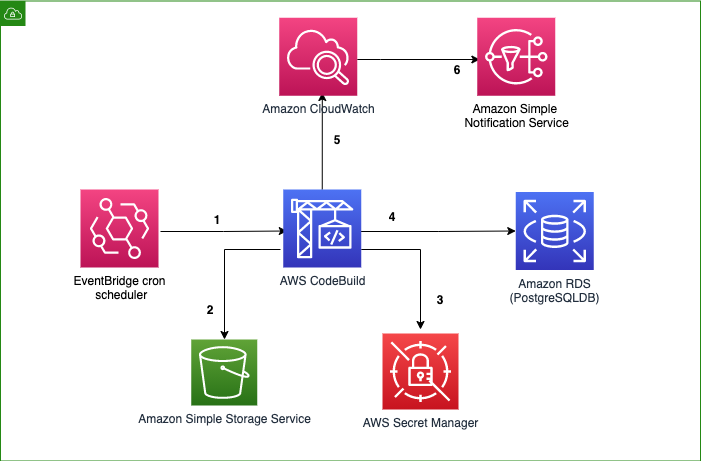
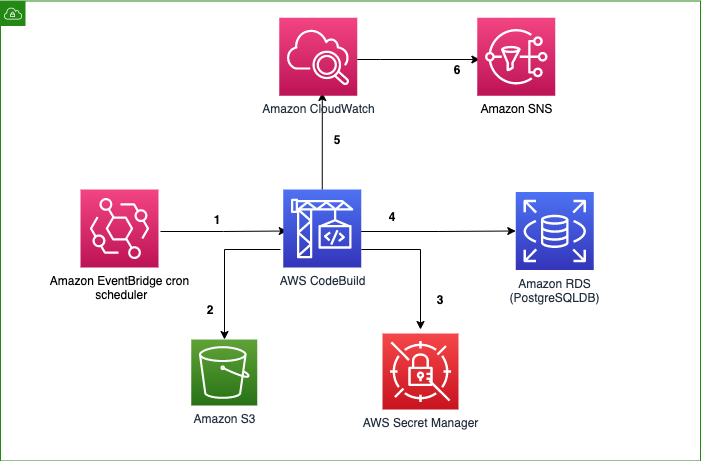
Updated to fix grammers

Changed region(s): [[0.2097, 0.8807, 0.4494, 0.9414], [0.0599, 0.577, 0.2696, 0.6377], [0.6591, 0.2126, 0.8088, 0.2733]]

diff --git a/README.md b/README.md
@@ -1,108 +1,108 @@
 
-# How to use AWS CodeBuild and Amazon EventBridge rules to schedule jobs in Amazon RDS PostgreSQL
+# Schedule jobs in Amazon RDS for PostgreSQL using AWS CodeBuild and Amazon EventBridge
 
 ## Introduction
-When you want to migrate on-premises database workloads with jobs to AWS, you need to select the right AWS services to schedule the jobs .Database administrators traditionally schedule scripts to run against databases using the system cron on the host where the database is running.  When you migrate such workloads from on premises to a managed database service Amazon Relational Database Service (RDS) , you lose the ability to log into the host instance to schedule cron jobs. 
+When you want to migrate on-premises database workloads with jobs to AWS, you need to select the right AWS services to schedule the jobs. Database administrators traditionally schedule scripts to run against databases using the system cron on the host where the database is running. When you migrate such workloads from on premises to a managed database service like Amazon Relational Database Service (Amazon RDS), you lose the ability to log in to the host instance to schedule cron jobs. 
 
-Newer releases of RDS PostgreSQL starting with version 12.5 enable you to schedule PostgreSQL commands within your database. However, if you have a requirement to orchestrate the RDS jobs and need to integrate with native AWS services such as Amazon Simple Notification Service to send notifications then this post provides an alternate way to schedule  and run RDS jobs using AWS CodeBuild and Amazon EventBridge rules.
+Newer releases of Amazon RDS for PostgreSQL starting with version 12.5 enable you to schedule PostgreSQL commands within your database. However, if you need to orchestrate the Amazon RDS jobs and integrate with native AWS services such as Amazon Simple Notification Service (Amazon SNS) to send notifications, this post provides an alternate way to schedule and run Amazon RDS jobs using AWS CodeBuild and Amazon EventBridge rules.
+
 
 ## Why use AWS CodeBuild for scheduling jobs?
-A RDS job can execute stored procedures/ functions , extract the data, purge the data or do any other SQL operations. There are multiple managed services in AWS , such as  AWS Lambda , AWS Batch, Amazon Elastic Container Service (Amazon ECS), AWS Step Functions can be used to run RDS jobs like executing stored procedures , functions or simple SQL statements. As your data grows, jobs might take more than 15mins to run. AWS CodeBuild can natively handle workloads that run for a longer time, in comparison to service like Lambda, which are designed to finish within 15 minutes.
+An Amazon RDS job can run stored procedures and functions, extract the data, purge the data, or do any other SQL operations. You can run these jobs with different AWS services, such as AWS Lambda, AWS Batch, Amazon Elastic Container Service (Amazon ECS), and AWS Step Functions. As your data grows, jobs might take more than 15 minutes to run. CodeBuild can natively handle workloads that run for a longer time, in comparison to services like Lambda, which are designed to finish within 15 minutes.
 
-If you want to use AWS batch or Amazon ECS , you need to package your code as a Docker container. AWS CodeBuild is a good option when your job takes more than 15 mins or  you can’t (or don’t want to) package your code as a Docker container or you want to use different programming language runtimes for your jobs. 
- 
+If you want to use AWS Batch or Amazon ECS, you need to package your code as a Docker container. CodeBuild is a good option when your job takes more than 15 minutes or you can’t (or don’t want to) package your code as a Docker container, or you want to use different programming language runtimes for your jobs.
 
-This post demonstrates how to use the combination of AWS CodeBuild and Amazon EventBridge rules to schedule, and run functions or stored procedures on a RDS PostgreSQL database instance. 
+This post demonstrates how to use the combination of CodeBuild and EventBridge rules to schedule and run functions or stored procedures on an RDS for PostgreSQL database instance. 
+
 
 ![Alt Text](Architecture-scheduling%20Amazon%20RDS%20jobs%20with%20AWS%20CodeBuild%20and%20Amazon%20EventBridge%20rules.png?raw=true  "Title")
 
     1. EventBridge triggers a CodeBuild project environment based on your schedule 
-    2. CodeBuild retrieves the source code from S3 bucket
+    2. CodeBuild retrieves the source code from an Amazon Simple Storage Service (Amazon S3) bucket.
     3. CodeBuild retrieves the database credentials from AWS secrets manager
-    4. CodeBuild initiates the database connection and executes Postgres stored procedure/function 
+    4. CodeBuild initiates the database connection and runs the PostgreSQL stored procedure or function 
     5. CodeBuild events are published to EventBridge
-    6. SNS notifies job status to subscribed users
+    6. Amazon SNS notifies subscribed users of the job status
 
 
 
 ## Prerequisites
-Before you begin, you'll need to complete the following prerequisites:
+Before you begin, you need to complete the following prerequisites:
     
    * Create or have access to an [AWS account](https://signin.aws.amazon.com/signin?redirect_uri=https%3A%2F%2Fportal.aws.amazon.com%2Fbilling%2Fsignup%2Fresume&client_id=signup).
    * Ensure [git](https://git-scm.com/downloads) is installed on your machine.
-   * Set up and configure [AWS Command Line](http://aws.amazon.com/cli). For instructions, see [Installing the AWS CLI](https://docs.aws.amazon.com/cli/latest/userguide/cli-chap-install.html).
-   * SQL client to connect to RDS database. In this post I used [Dbeaver](https://dbeaver.io/ ). 
-   * Email address to receive [SNS](https://aws.amazon.com/sns) notifications.
+   * Set up and configure the [AWS Command Line](http://aws.amazon.com/cli). For instructions, see [Installing the AWS CLI](https://docs.aws.amazon.com/cli/latest/userguide/cli-chap-install.html).
+   * Have a SQL client to connect to RDS database. In this post I used [Dbeaver](https://dbeaver.io/ ). 
+   * Have an email address to receive Amazon[SNS](https://aws.amazon.com/sns) notifications.
 
 
 
 ## Walkthrough
-    
+  The following steps provide a high-level overview of the walkthrough:  
 
-  * Clone the project from the AWS code samples repository
-  * Deploy the CloudFormation template to create the required services
-  * Go to the AWS CloudFormation console and make sure that the resources are created
-  * Upload source code to S3 bucket 
-  * Run database scripts and create the required tables and functions
-  * Execute CodeBuild project manually
-  * Verify if batch job is running successfully based on the EventBridge rule
-
+  * Clone the project from the AWS code samples repository.
+  * Deploy the AWS CloudFormation template to create the required services.
+  * Upload source code to the S3 bucket. 
+  * Run database scripts and create the SQL function.
+  * Execute CodeBuild project manually.
+  * Verify if batch job is running successfully based on the EventBridge rule.
 
 
 
-## Clone source code from AWS samples
-Download the files required to set up the environment. Refer to the following commands and files:
+## Clone the source code
+Download the files required to set up the environment. See the following code:
 
    > $ git clone https://github.com/aws-samples/aws-codebuild-rds-job-scheduling
 
    > $ cd aws-codebuild-rds-job-scheduling
-
-**CreateFunct.sql** - Has a code to create sample SQL function. AWS CodeBuild project is configured to execute this SQL function.
+You use the following files:
+**CreateFunct.sql** - Has a code to create a sample SQL function. The CodeBuild project is configured to run this SQL function.
 
 **Jobschedulingcft.yml** - Defines all the AWS resources required for this solution.
 
-**invokepostgresqldbpy.zip** - Contains buildspec.yml and a python script. CodeBuild installs the libraries such as boto3 , psycopg2 defined in the buildspec.yml and invokes the python script which has a code to connect to PostgreSQL database and execute the SQL function.
+**invokepostgresqldbpy.zip** - Contains buildspec.yml and a Python script. CodeBuild installs the libraries such as boto3 and psycopg2 defined in the buildspec.yml and invokes the Python script, which has a code to connect to PostgreSQL database and run the SQL function.
 
 
-## Deploy the AWS CloudFormation template
+## Deploying the CloudFormation template
 
 To deploy the CloudFormation template, complete the following steps:
 
-   * Update email address parameter in the CloudFormation template Jobschedulingcft.yml. The email address will be used by Amazon SNS to send a notification about the job status
+   * Update the email address parameter in the CloudFormation template Jobschedulingcft.yml. Amazon SNS uses this email address to send a notification about the job status.
 
-   * Run the CloudFormation template to provision the required services. See the following command for macOS or Linux:
+   * Run the CloudFormation template to provision the required services. See the following code for macOS or Linux:
         > $ aws cloudformation create-stack --stack-name codebuildjob --template-body file://Jobschedulingcft.yml --capabilities CAPABILITY_NAMED_IAM --region us-east-1
-        
+
+        You receive the following output:
         > {
         "StackId": "arn:aws:cloudformation:us-east-1:xxxxxxxx:stack/codebuildjob/aade45d0-0415-11eb-9c12-0ed4f058f52d"
          }
 
-The template will create the following resources:
+The template creates the following resources:
 
-   * AWS CodeBuild project
+   * A CodeBuild project
    * A PostgreSQL instance
-   * S3 bucket
-   * AWS Secrets Manager with PostgreSQL database login credentials
-   * EventBridge rule to trigger the job every day at 10 AM (UTC)
-   * IAM Service Roles for CodeBuild, EventBridge and SNS 
-   * SNS Topic to send notifications to the provided email address with the status of the executed Job
+   * An S3 bucket
+   * Secrets Manager with PostgreSQL database login credentials
+   * An EventBridge rule to trigger the job every day at 10:00 AM (UTC)
+   * AWS Identity and Access Management (IAM) service roles for CodeBuild, EventBridge, and Amazon SNS
+   * An SNS topic to send notifications to the provided email address with the status of the job
 
-## Upload source code to S3 bucket
-Go to the AWS CloudFormation console and note down the S3 bucket name in Outputs section of your stack.
+## Upload the source code to the S3 bucket
+On the AWS CloudFormation console, choose the Outputs tab. Make a note of the S3 bucket name.
 Upload aws-codebuild-rds-job-scheduling/src/invokepostgresqldbpy.zip to S3 bucket using CLI command:
  > $ aws s3 cp ./src/invokepostgresqldbpy.zip s3://{*your S3 bucket name*}
 
 
 
-## Code Cleanup
+## Clean up
 
 To avoid incurring future changes, clean up the resources you created.
-   * Delete S3 objects: 
+   * Delete the S3 objects: 
      > $ aws s3 rm s3://{*your s3 bucket name*} --recursive
    * Delete the CloudFormation stack: 
      > $ aws cloudformation delete-stack --stack-name codebuildjob
 
-Alternatively, [delete the stack on the AWS CloudFormation console](https://docs.aws.amazon.com/AWSCloudFormation/latest/UserGuide/cfn-console-delete-stack.html). You can refer [here](https://docs.aws.amazon.com/AWSCloudFormation/latest/UserGuide/troubleshooting.html#troubleshooting-errors-delete-stack-fails) if the stack deletion fails.
+Alternatively, [delete the stack on the AWS CloudFormation console](https://docs.aws.amazon.com/AWSCloudFormation/latest/UserGuide/cfn-console-delete-stack.html). To troubleshoot if stack deletion fails, see [Delete stack fails](https://docs.aws.amazon.com/AWSCloudFormation/latest/UserGuide/troubleshooting.html#troubleshooting-errors-delete-stack-fails).
 
 
 
